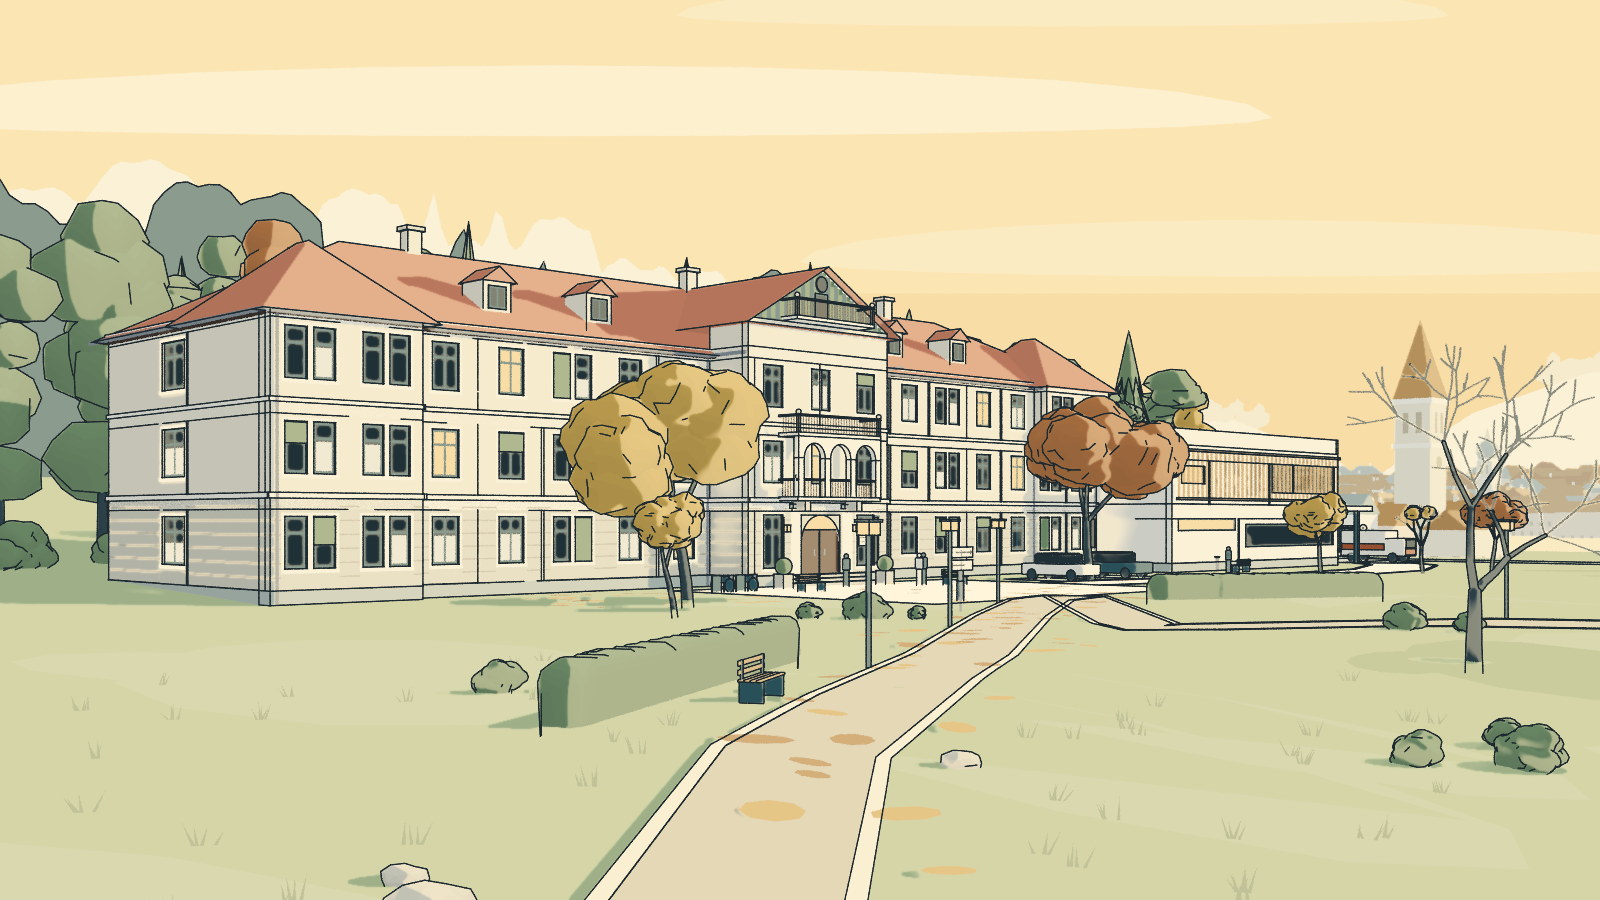
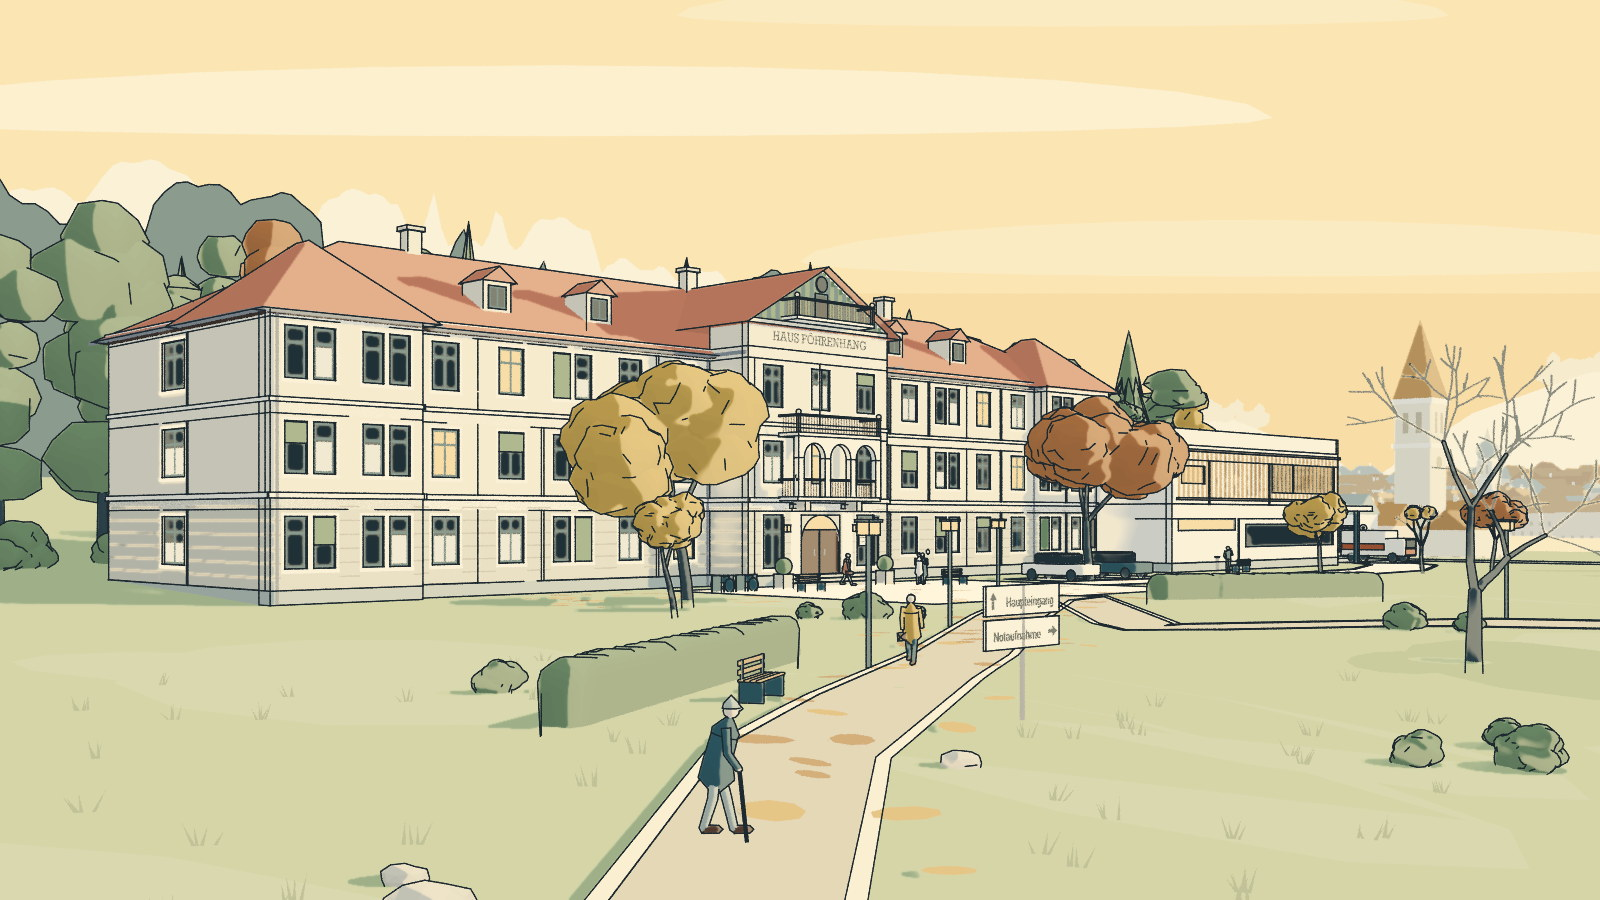
HAUS: Figuren mit Haltung und Gegenstand, lesbare Schrift (Schriftzug Giebelwand, Wegweiser am Parkweg, Haltestellen-H)

diff --git a/gen/blender/haus_blockout.py b/gen/blender/haus_blockout.py
@@ -228,8 +228,25 @@ GIEBEL_DEKOR = dict(streifen=0.32, balkon=(27.6, 33.6, 1.2), rundfenster=(0.42, 
 # Wegweiser an der Kehre, Haltestelle an der Klinikstraße, Raucherecke an der Ecke von Trakt N, Fahrradständer am Vorplatz
 ZUFAHRT = [(41.0, -12.0), (50.0, -13.6), (62.0, -15.0), (76.0, -14.2), (88.0, -10.0), (92.0, -6.5)]
 STELLPLAETZE = dict(flaeche=(43.5, -10.8, 53.5, -5.5), autos=[(45.6, -8.1, "auto_weiss"), (51.2, -8.1, "auto_blau")])   # (x, y Mitte, Material), längs y
-FIGUREN = [(30.6, -4.9, 0.0), (34.6, -6.6, 2.2), (35.3, -6.3, -0.8), (64.0, -8.6, 1.0), (23.5, -18.5, 0.6), (106.4, 7.5, 3.1)]   # (x, y, Blick rad)
-WEGWEISER = dict(ort=(17.0, -23.8), hoehe=2.4, schilder=((2.1, 1), (1.6, -1)))   # Schilder (z Unterkante, Pfeilrichtung ±1): Notaufnahme →, Bettenstationen ←
+FIGUREN = [(30.6, -4.9, -0.9, "geht", "ziegel", "sockel", 0.72, "tasche", "haar"),          # Besucherin verlässt das Portal, roter Mantel, Tasche
+           (34.6, -6.6, 0.4, "spricht", "rtw", "figur", 0.62, "klemmbrett", "dutt"),   # Ärztin im Kittel, mitten im Satz …
+           (35.3, -6.3, 3.54, "infusion", "tor", "kante", 0.5, "infusion", None),         # … mit einem Patienten im Bademantel am Infusionsständer
+           (64.0, -8.6, -2.2, "raucht", "petrol", "petrol", None, "zigarette", "haar"),     # Pflegerin in der Raucherecke
+           (-16.8, -47.3, -0.8, "stock", "figur", "sockel", 0.75, "stock", "muetze"),         # älterer Herr mit Gehstock bleibt auf dem Parkweg stehen
+                                           # (22 m vor der Kamera, ≈ 115 px hoch) und schaut ins Tal: die eine Figur, deren Haltung liest
+           (-0.9, -36.8, -2.62, "geht", "laub_gelb", "figur", 0.7, "tasche", "haar"),         # Besucherin kommt den Parkweg herunter (38 m, links neben dem Wegweiser)
+           (106.4, 7.5, 3.1, "wartet", "rollladen", "figur", 0.7, "telefon", "muetze")]       # wartet an der Haltestelle, schaut aufs Telefon
+                                           # (x, y, Blick rad, Haltung, Kleidung, Hose, Mantelsaum m oder None, Gegenstand, Kopf); Blick möglichst
+                                           # quer zur Kamera, damit Schritt und Arme in der Silhouette lesen
+WEGWEISER = dict(ort=(-6.0, -44.0), hoehe=2.65, schilder=((2.02, 0, "Haupteingang"), (1.38, 1, "Notaufnahme")), breite=2.3, hoch_=0.56, schrift=0.36)
+                                           # am Parkweg West rechts, 30 m vor der Kamera (≈ 50 px/m, Schrift ≈ 13 px; an der Kehre 60 m weit
+                                           # war sie unlesbar). Schilder (z Unterkante, Pfeil 0 = geradeaus / 1 = rechts, Text)
+# Schrift (25.10.2026): echte Buchstaben aus einer Schriftdatei (vom Code gesetzt, ART_BIBLE §6), nur Namen und Wegweiser auf Deutsch
+# (das Haus steht in Österreich; Spieltexte bleiben im UI). Fehlt die Datei, nimmt Blender seine eingebaute Schrift.
+SCHRIFTEN = dict(fassade="/System/Library/Fonts/Supplemental/Rockwell.ttc", schild="/System/Library/Fonts/Supplemental/DIN Alternate Bold.ttf")
+SCHRIFTZUG = dict(text="HAUS FÖHRENHANG", grundlinie=12.42, groesse=0.86)
+                                           # Antiqua-Versalien (Tinte auf Putz) auf der Giebelwand über dem Traufgesims (z 12 … 13,5, bisher leer):
+                                           # 0,6 m hoch ≈ 11 px aus Kamera (a); unter dem Traufgesims verdeckten die Fensterfaschen des 2. OG die Schrift
 HALTESTELLE = dict(x=106.6, y0=3.5, y1=7.5, tiefe=1.6, hoehe=2.6, schild=(105.6, 1.5))
 RAUCHERECKE = dict(bank=(66.0, -8.4), ascher=(63.6, -8.0))
 FAHRRAEDER = dict(buegel=(21.2, 22.0, 22.8, 23.6), y=-5.0, raeder=((21.6, "figur"), (23.2, "tor")))
@@ -342,7 +359,7 @@ PALETTE = {
     "tor": "#2C5560", "lamelle": "#C99A5B", "beton": "#F7F1E4", "stuetze": "#2C5560", "attika": "#F7F1E4",
     "wand": "#EFE6D3", "wand_n": "#F7F1E4", "paneel": "#BFD9CF", "paneel_n": "#2C5560", "decke": "#F7F1E4",
     "lino_warm": "#C9BDA2", "lino_kuehl": "#B6BFB6", "tuer": "#2C5560", "zarge": "#C99A5B", "holz": "#C99A5B",
-    "lift": "#2C5560", "petrol": "#2C5560", "figur": "#2C5560",
+    "lift": "#2C5560", "petrol": "#2C5560", "figur": "#2C5560", "haut": "#EFE0CC",
     # Außengrün (ART_BIBLE §2 „Wiese"/„Laub", Entscheid des Nutzers 23.10.2026): Rasen Wiese, Kronen/Hecken/Büsche Laub
     "wiese": "#ACB98B", "wiese_hell": "#B9C59A", "wiese_dunkel": "#9FAE7E", "gras": "#8E9C70", "weg": "#C9BDA2", "kante": "#EFE6D3", "asphalt": "#B6BFB6", "pflaster": "#F7F1E4", "hecke": "#6F8A62",
     "stamm": "#2C3E46", "zweig": "#2C3E46", "laub": "#6F8A62", "wald_nah": "#6F8A62", "wald_mitte": "#2C5560", "wald_fern": "#F7F1E4",
@@ -384,7 +401,7 @@ TAG_PALETTE = {
     # Fassadendetails und Herbst (ART_BIBLE §2 „Außen", Ergänzung 25.10.2026)
     "fasche": "#F4F1E6", "gesims": "#F4F1E6", "rustika": "#D6D0BE", "fuge": "#AFA896", "rollladen": "#4F7F4A", "holz_gruen": "#4F7F4A",
     "gardine": "#E3E6EC", "holz_dunkel": "#4A2E22", "stein": "#CFC9BA", "zink": "#7E858F", "schrift": "#1A1F2E", "sparren": "#3B2A22",
-    "auto_weiss": "#F4F1E6", "auto_blau": "#3A5A8C", "laub_gelb": "#D9A93C", "laub_rost": "#B9652C", "laub_boden": "#B8762F", "laub_boden_hell": "#D8A24A",
+    "auto_weiss": "#F4F1E6", "auto_blau": "#3A5A8C", "haut": "#E8C4A0", "laub_gelb": "#D9A93C", "laub_rost": "#B9652C", "laub_boden": "#B8762F", "laub_boden_hell": "#D8A24A",
 }
 # Stadt und Hügel (25.10.2026): Wand-, Dach-, Fenster- und Baumtöne; „…_fern" = zum Horizont hin mit Dunst gemischt (Oberstadt am
 # Gegenhang, Luftperspektive). Probe (06:40): alles im Talschatten, ohne Linie. Stile: besonnt und schattiert, die nahe Unterstadt mit Linie.
@@ -926,24 +943,112 @@ def bauen():
 
     for i, (x, y, m) in enumerate(STELLPLAETZE["autos"]): auto(f"Auto {i + 1}", x, y, m)
 
-    def figur(name, x, y, blick, m="figur"):
-        """Silhouette: Kapsel 1,7 m (Rumpf, Kopf, zwei Beine als ein schmalerer Zylinder), kein Schlagschatten, kleiner Fußschatten."""
-        z = gelaende_z(x, y)
-        einordnen(wz.zylinder(0.15, 0.85, (x, y, z + 0.425), M[m], "hinten", v=10, name=f"{name} Beine"), "Figuren")
-        einordnen(wz.kiste((0.42, 0.24, 0.62), (x, y, z + 1.16), M[m], "hinten", dreh=(0, 0, blick), fase=0.08, name=f"{name} Rumpf"), "Figuren")
-        einordnen(wz.kugel(0.12, (x, y, z + 1.6), M[m], "hinten", name=f"{name} Kopf"), "Figuren")
+    # Figuren (25.10.2026, ART_BIBLE §5 „Haltung statt Pose"): Gerüst aus Röhren (Rumpf, Arme, Beine mit Knie und Ellbogen),
+    # Kopf und Hände als Kugeln, Mantel als Glocke von der Brust bis zum Saum, dazu je ein Gegenstand. Gelenkpunkte je Haltung in
+    # einem Figurenrahmen (u vorwärts, v links, z oben); bei 18–23 px/m trägt nur die Silhouette, darum übertrieben: weiter
+    # Schritt, abgespreizte Arme, Neigung. Zwei Farben (Kleidung, Hose) plus Haut für Kopf und Hände.
+    HALTUNGEN = {
+        "geht": dict(neig=6, kopf=(0.0, 0.0), beine=(((0.14, 0.1, 0.5), (0.3, 0.1, 0.08)), ((-0.08, -0.1, 0.48), (-0.28, -0.1, 0.14))),
+                     arme=(((-0.1, 0.22, 1.15), (-0.2, 0.22, 0.92)), ((0.1, -0.22, 1.15), (0.16, -0.2, 0.9)))),
+        "spricht": dict(neig=-2, kopf=(8, 10), beine=(((0.0, 0.09, 0.5), (0.0, 0.1, 0.08)), ((0.08, -0.14, 0.5), (0.06, -0.2, 0.08))),
+                        arme=(((0.04, 0.23, 1.12), (0.24, 0.12, 1.14)), ((0.1, -0.3, 1.16), (0.3, -0.36, 1.34)))),
+        "infusion": dict(neig=10, kopf=(10, 0), beine=(((0.08, 0.1, 0.5), (0.14, 0.1, 0.08)), ((-0.02, -0.1, 0.5), (-0.1, -0.1, 0.1))),
+                         arme=(((0.12, 0.26, 1.1), (0.24, 0.3, 1.26)), ((0.0, -0.21, 1.12), (0.04, -0.22, 0.86)))),
+        "raucht": dict(neig=-5, kopf=(-6, -8), beine=(((0.06, 0.04, 0.5), (0.12, -0.08, 0.08)), ((0.0, -0.1, 0.5), (0.0, -0.12, 0.08))),
+                       arme=(((0.16, 0.2, 1.2), (0.12, 0.05, 1.52)), ((-0.06, -0.26, 1.1), (0.02, -0.21, 0.97)))),
+        "stock": dict(neig=14, kopf=(-8, 0), beine=(((0.12, 0.1, 0.5), (0.22, 0.1, 0.08)), ((-0.04, -0.1, 0.5), (-0.16, -0.1, 0.12))),
+                      arme=(((-0.02, 0.22, 1.1), (0.02, 0.24, 0.86)), ((0.12, -0.24, 1.1), (0.3, -0.24, 0.9)))),
+        "wartet": dict(neig=0, kopf=(22, -6), beine=(((0.0, 0.06, 0.5), (0.0, 0.05, 0.08)), ((0.1, -0.16, 0.52), (0.14, -0.24, 0.08))),
+                       arme=(((0.06, 0.22, 1.12), (0.24, 0.08, 1.24)), ((-0.04, -0.25, 1.16), (0.04, -0.17, 1.4)))),
+    }
+
+    def figur(name, x, y, blick, haltung, kleid="figur", hose="figur", mantel=None, ding=None, kopfteil=None):
+        """Figur mit Haltung (HALTUNGEN). `mantel`: Saumhöhe (Kittel, Bademantel, Mantel) oder None; `ding`: Tasche, Klemmbrett,
+        Infusionsständer, Zigarette, Gehstock, Telefon. Kein Schlagschatten (Sammlung Figuren), kleiner Fußschatten."""
+        z0 = gelaende_z(x, y); hl = HALTUNGEN[haltung]; cw, sw = math.cos(blick), math.sin(blick)
+        neig = math.radians(hl["neig"])
+
+        def P(u, v, z, oben=True):                                 # Figurenrahmen -> Welt; Oberkörper um das Becken geneigt
+            if oben and z > 0.95: u, z = u + (z - 0.95) * math.sin(neig), 0.95 + (z - 0.95) * math.cos(neig)
+            return Vector((x + u * cw - v * sw, y + u * sw + v * cw, z0 + z))
+        teile = {m: Bau() for m in {kleid, hose, "haut", "holz_dunkel", "rtw", "zink"}}
+        becken, brust, hals = P(0, 0, 0.95), P(0.02, 0, 1.36), P(0.03, 0, 1.5)
+        teile[kleid].roehre([becken - Vector((0, 0, 0.08)), P(0.01, 0, 1.15), brust, hals], [0.15, 0.155, 0.18, 0.07])
+        if mantel:                                                 # Mantel: Glocke von der Brust zum Saum, unten weiter
+            teile[kleid].roehre([P(0.02, 0, 1.3), P(0.01, 0, 1.0), P(0.0, 0, mantel, oben=False)], [0.18, 0.19, 0.24], seiten=10)
+        kn, kt = hl["kopf"]; kopf = P(0.04 + 0.1 * math.sin(math.radians(kn)), 0.1 * math.sin(math.radians(kt)), 1.62)
+        teile["haut"].lappen(kopf, 0.105, random.Random(name), stufe=2, beulen=4, tiefe=0.0, flach=1.1)
+        hinten = P(-0.035, 0, 0, oben=False) - P(0, 0, 0, oben=False)
+        if kopfteil in ("haar", "dutt"):                           # Haar als Kappe hinten-oben, Dutt als Kugel am Hinterkopf
+            teile["holz_dunkel"].lappen(kopf + hinten + Vector((0, 0, 0.025)), 0.108, random.Random(name + "h"), stufe=2, beulen=6, tiefe=0.12, flach=0.95)
+            if kopfteil == "dutt": teile["holz_dunkel"].lappen(kopf + hinten * 3.2 + Vector((0, 0, 0.06)), 0.055, random.Random(name + "d"), stufe=1, beulen=3, tiefe=0.0)
+        elif kopfteil == "muetze":                                 # Schiebermütze: flacher Deckel mit Schirm nach vorn
+            vorn = P(0.09, 0, 0, oben=False) - P(0, 0, 0, oben=False)
+            teile[hose].roehre([kopf + Vector((0, 0, 0.04)), kopf + Vector((0, 0, 0.1))], [0.118, 0.1], seiten=10)
+            teile[hose].roehre([kopf + Vector((0, 0, 0.045)), kopf + vorn + Vector((0, 0, 0.035))], [0.07, 0.06], seiten=6)
+        for seite, ((knie, fuss)) in zip((1, -1), hl["beine"]):
+            huefte = P(0.0, 0.09 * seite, 0.93, oben=False)
+            k_, f_ = P(*knie, oben=False), P(*fuss, oben=False)
+            teile[hose].roehre([huefte, k_, f_], [0.075, 0.065, 0.055])
+            teile["holz_dunkel"].roehre([f_, f_ + (P(0.2, 0, 0, oben=False) - P(0, 0, 0, oben=False))], [0.055, 0.05], seiten=6)   # Schuh
+        haende = []
+        for seite, (ell, hand) in zip((1, -1), hl["arme"]):
+            sch = P(0.02, 0.19 * seite, 1.42); e_, h_ = P(*ell), P(*hand)
+            teile[kleid].roehre([sch, e_, h_], [0.06, 0.052, 0.045]); teile["haut"].lappen(h_, 0.05, random.Random(name + str(seite)), stufe=1, beulen=3, tiefe=0.0)
+            haende.append(h_)
+        links, rechts = haende
+        if ding == "tasche":                                       # Tasche an der rechten Hand
+            t = teile["holz_dunkel"]; c = rechts - Vector((0, 0, 0.2)); quer = P(0, 0.06, 0, oben=False) - P(0, 0, 0, oben=False); vor = P(0.16, 0, 0, oben=False) - P(0, 0, 0, oben=False)
+            t.roehre([c - vor, c + vor], [0.13, 0.13], seiten=4)
+        elif ding == "klemmbrett":                                 # Klemmbrett in der linken Hand, leicht schräg
+            t = teile["rtw"]; t.roehre([links + Vector((0, 0, -0.1)), links + Vector((0, 0, 0.18))], [0.13, 0.13], seiten=4)
+        elif ding == "infusion":                                   # Infusionsständer neben der linken Hand: Stange, Fuß, Beutel oben
+            fuss = P(0.26, 0.34, 0.0, oben=False); t = teile["zink"]
+            t.roehre([fuss, fuss + Vector((0, 0, 1.95))], [0.018, 0.018], seiten=6)
+            for a in range(3): t.roehre([fuss + Vector((0, 0, 0.06)), fuss + Vector((0.28 * math.cos(a * 2.1), 0.28 * math.sin(a * 2.1), 0.02))], [0.02, 0.02], seiten=4)
+            teile["rtw"].lappen(fuss + Vector((0, 0, 1.78)), 0.1, random.Random(name + "b"), stufe=1, beulen=3, tiefe=0.0, flach=1.5)
+        elif ding == "zigarette":
+            teile["rtw"].roehre([links, links + (P(0.12, 0.02, 1.56) - P(0, 0, 1.5))], [0.012, 0.012], seiten=4)
+        elif ding == "stock":                                      # Gehstock von der rechten Hand schräg vor die Füße
+            teile["holz_dunkel"].roehre([rechts + Vector((0, 0, 0.04)), P(0.4, -0.26, 0.0, oben=False)], [0.022, 0.02], seiten=6)
+        elif ding == "telefon":                                    # Telefon leuchtet (fenster_warm), Tasche am Riemen
+            teile["holz_dunkel"].roehre([links, links + Vector((0, 0, 0.12))], [0.04, 0.04], seiten=4)
+            t = teile["holz_dunkel"]; c = P(-0.02, -0.24, 0.98, oben=False); t.roehre([c - Vector((0, 0, 0.14)), c + Vector((0, 0, 0.14))], [0.12, 0.12], seiten=4)
+        for m, b in teile.items(): b.fertig(f"{name} {m}", m, "Figuren", glatt=m in (kleid, hose, "haut"))
         fussschatten(f"{name} Schatten", x, y, 0.3, laenge=1.4, breite=0.7, versatz=0.8)
 
-    for i, (x, y, blick) in enumerate(FIGUREN): figur(f"Figur {i + 1}", x, y, blick, "rtw" if i == 1 else "figur")   # eine im weißen Kittel
+    for i, f_ in enumerate(FIGUREN): figur(f"Figur {i + 1}", *f_)
+
+    def schrift(name, text, x, y, z, groesse, m="schrift", samm="Hof", art="schild", dreh=0.0, ausrichtung="CENTER"):
+        """Text als Netz aus einer Schriftdatei (SCHRIFTEN): Grundlinie bei z, liest von links nach rechts, Vorderseite nach −y
+        (`dreh` um z). Font-Kurve -> Netz über den Depsgraph, die Kurve wird danach gelöscht."""
+        cu = bpy.data.curves.new(name, 'FONT'); cu.body = text; cu.size = groesse; cu.extrude = 0.008; cu.align_x = ausrichtung
+        pfad = SCHRIFTEN.get(art)
+        if pfad and os.path.exists(pfad): cu.font = bpy.data.fonts.load(pfad, check_existing=True)
+        tmp = bpy.data.objects.new(name, cu); sc.collection.objects.link(tmp)
+        me = bpy.data.meshes.new_from_object(tmp.evaluated_get(bpy.context.evaluated_depsgraph_get()))
+        bpy.data.objects.remove(tmp); bpy.data.curves.remove(cu)
+        me.materials.clear(); me.materials.append(M[m])
+        o = bpy.data.objects.new(name, me); sc.collection.objects.link(o)
+        o.rotation_euler = (math.radians(90), 0, dreh); o.location = (x, y, z)
+        return einordnen(o, samm)
 
     wwz = WEGWEISER; (wx, wy) = wwz["ort"]; wzz = gelaende_z(wx, wy)                 # Wegweiser an der Kehre: Pfosten, zwei weiße Schilder mit Pfeil und Textbalken
     einordnen(wz.zylinder(0.05, wwz["hoehe"], (wx, wy, wzz + wwz["hoehe"] / 2), M["zink"], "hinten", v=8, name="Wegweiser Pfosten"), "Hof")
-    for i, (zs, richtung) in enumerate(wwz["schilder"]):
-        kiste(f"Wegweiser Schild {i + 1}", wx - 0.7, wy - 0.03, wx + 0.7, wy + 0.03, wzz + zs, wzz + zs + 0.4, "rtw", "Hof")
-        sx = wx + richtung * 0.42; sz = wzz + zs + 0.2
-        kiste(f"Wegweiser Pfeil {i + 1}", sx - 0.14, wy - 0.045, sx + 0.14, wy - 0.035, sz - 0.03, sz + 0.03, "schrift", "Hof")
-        netz(f"Wegweiser Pfeilspitze {i + 1}", [(sx + richtung * 0.1, wy - 0.045, sz - 0.11), (sx + richtung * 0.1, wy - 0.045, sz + 0.11), (sx + richtung * 0.26, wy - 0.045, sz)], [(0, 1, 2)], "schrift", "Hof")
-        kiste(f"Wegweiser Text {i + 1}", wx - 0.55 + (0.2 if richtung > 0 else 0.0), wy - 0.045, wx + 0.2 + (0.2 if richtung > 0 else 0.0), wy - 0.035, sz - 0.03, sz + 0.03, "schrift", "Hof")
+    bw, bh = wwz["breite"] / 2, wwz["hoch_"]
+    for i, (zs, richtung, text) in enumerate(wwz["schilder"]):    # weißes Schild, Pfeil links (geradeaus) oder rechts, Text in DIN
+        kiste(f"Wegweiser Schild {i + 1}", wx - bw, wy - 0.03, wx + bw, wy + 0.03, wzz + zs, wzz + zs + bh, "rtw", "Hof")
+        sz = wzz + zs + bh / 2; yf = wy - 0.045
+        if richtung:                                                # → an der rechten Kante
+            sx = wx + bw - 0.24
+            kiste(f"Wegweiser Pfeil {i + 1}", sx - 0.12, yf, sx + 0.02, yf + 0.01, sz - 0.035, sz + 0.035, "schrift", "Hof")
+            netz(f"Wegweiser Pfeilspitze {i + 1}", [(sx, yf, sz - 0.11), (sx, yf, sz + 0.11), (sx + 0.16, yf, sz)], [(0, 1, 2)], "schrift", "Hof")
+            schrift(f"Wegweiser Text {i + 1}", text, wx - 0.2, wy - 0.04, sz - 0.125, wwz["schrift"])
+        else:                                                       # ↑ an der linken Kante
+            sx = wx - bw + 0.2
+            kiste(f"Wegweiser Pfeil {i + 1}", sx - 0.035, yf, sx + 0.035, yf + 0.01, sz - 0.16, sz + 0.02, "schrift", "Hof")
+            netz(f"Wegweiser Pfeilspitze {i + 1}", [(sx - 0.11, yf, sz + 0.02), (sx + 0.11, yf, sz + 0.02), (sx, yf, sz + 0.17)], [(0, 1, 2)], "schrift", "Hof")
+            schrift(f"Wegweiser Text {i + 1}", text, wx + 0.2, wy - 0.04, sz - 0.125, wwz["schrift"])
 
     hs_ = HALTESTELLE; hz = gelaende_z(hs_["x"], (hs_["y0"] + hs_["y1"]) / 2)         # Haltestelle an der Klinikstraße: Glashäuschen und H-Schild
     for yy in (hs_["y0"] + 0.1, hs_["y1"] - 0.1):
@@ -954,7 +1059,7 @@ def bauen():
     sx, sy = hs_["schild"]; sz = gelaende_z(sx, sy)
     einordnen(wz.zylinder(0.04, 2.6, (sx, sy, sz + 1.3), M["zink"], "hinten", v=8, name="Haltestelle Schildpfosten"), "Hof")
     einordnen(wz.zylinder(0.32, 0.04, (sx, sy, sz + 2.7), M["rtw"], "hinten", dreh=(0, math.radians(90), 0), v=16, name="Haltestelle Schild"), "Hof")
-    kiste("Haltestelle H", sx - 0.04, sy - 0.12, sx + 0.04, sy + 0.12, sz + 2.6, sz + 2.8, "schrift", "Hof")
+    schrift("Haltestelle H", "H", sx - 0.04, sy, sz + 2.58, 0.36, m="rollladen", dreh=math.radians(-90))   # grünes H auf weißer Scheibe
 
     bank("Raucherecke Bank", *RAUCHERECKE["bank"], math.radians(180))                 # Raucherecke an der SE-Ecke von Trakt N, Standascher
     ax, ay = RAUCHERECKE["ascher"]; az = gelaende_z(ax, ay)
@@ -1467,6 +1572,8 @@ def bauen():
     pts += [(px1, zs_), (px1, zo), (px0, zo)]
     prisma("Loggia Bogenfeld", pts, "y", yv - 0.05, yv + lg["tiefe"], "gesims", "Trakt A 1OG")
     balkon("Loggia Austritt 2OG", px0, px1, yg, pt + 0.05, zo, pd["bruestung"], "Trakt A 2OG", bal=pd["baluster"])
+    sz_ = SCHRIFTZUG                                               # Schriftzug auf der Giebelwand (Antiqua in Tinte)
+    schrift("Schriftzug Haus", sz_["text"], (RISALIT_SE[0] + RISALIT_SE[2]) / 2, RISALIT_SE[1] - 0.02, sz_["grundlinie"], sz_["groesse"], samm="Trakt A Dach", art="fassade")
     sx0 = PORTAL["x1"] + 0.2 + pw + 0.7                            # Schild „Haus Föhrenhang": weiße Tafel, drei Textbalken (Schrift bei 17 px/m unlesbar)
     kiste("Schild Haus", sx0, yg - 0.04, sx0 + 0.95, yg, 1.5, 2.25, "rtw", "Trakt A EG")
     for i, (zs, lb_) in enumerate(((2.08, 0.55), (1.92, 0.75), (1.68, 0.4))):

diff --git a/docs/STAND.md b/docs/STAND.md
@@ -4,6 +4,13 @@ Diese Datei ist der Einstieg für die nächste Sitzung. Der Stand liegt auf dem 
 `claude/stil-ligne-claire` (gepusht). Prüfung: `python3 gen/kunst.py && python3 tools/baue.py &&
 node tools/durchlauf.mjs "$PWD/bau/nachtdienst.html" "$PWD/bau/durchlauf"` → „Alle Prüfungen bestanden."
 
+## Fertig (25.10.2026): Figuren mit Haltung und lesbare Schrift in der Außenansicht (a) (Auftrag B, dritter Teil)
+
+- `haus_blockout.py`: `HALTUNGEN` und `figur` (Röhrengerüst, Mantel, Gegenstand, Haar, Dutt, Mütze); sieben Figuren, davon
+  zwei vorn auf dem Parkweg (älterer Herr mit Gehstock, Besucherin mit Tasche). `schrift` setzt Text aus Schriftdateien:
+  „HAUS FÖHRENHANG" auf der Giebelwand, Wegweiser am Parkweg („↑ Haupteingang", „Notaufnahme →"), „H" an der Haltestelle.
+- Offen beim Nutzer: farbige Mäntel und Hautton draußen statt nur Petrol und Papier (ART_BIBLE §2), siehe KRANKENHAUS.
+
 ## Fertig (25.10.2026): Natur, Himmel und Ferne der Außenansicht (a) (Auftrag B, zweiter Teil)
 
 - Nutzer: Bäume lesen schlecht, kahle Bäume wie Hergé, Details und ferne Stadt wie in den Referenzen, Himmel auch
@@ -293,9 +300,9 @@ Koordination auf Opus. Commit nach jedem Teilschritt, pushen, STAND.md nachziehe
 
 ## Nächster Auftrag B (ab 25.10.2026): Fassade und Umgebung ausdetaillieren (beide Außenstile)
 
-**Stand 25.10.2026: Fassade und Natur/Himmel/Ferne fertig** (siehe „Fertig" oben). Rest: Rückmeldung des Nutzers zu
-den neuen Bäumen und zum Himmel, offene Fragen (Gardinen, kahler Baum, Trakt N), Figuren mit Haltung, Schild lesbar, dann
-Raumkameras aus KRANKENHAUS §9 und Aufnahme B1.
+**Stand 25.10.2026: Fassade, Natur/Himmel/Ferne, Figuren und Schrift fertig** (siehe „Fertig" oben; Bäume und Himmel
+vom Nutzer angenommen). Rest: offene Fragen (Farben der Figuren, Gardinen, kahler Baum, Trakt N), dann Raumkameras aus
+KRANKENHAUS §9 und Aufnahme B1.
 
 Außenstil ist entschieden (siehe „Fertig" oben). Jetzt die Außenansicht (a) vom Blockout zum Bild bringen, in beiden
 Stilen prüfen: Fenster mit Rahmen, Kämpfer und Sprossen, Sohlbank, Gardinen und Jalousien in wechselnder Höhe, einzelne

diff --git a/gen/blender/README.md b/gen/blender/README.md
@@ -135,6 +135,12 @@ ohne `bpy.ops` (`roehre`, `lappen`, `etage`); `astwerk` verzweigt rekursiv (Leit
 Baumsaum. Himmel der Stile: `himmel_grenzen` (fünf Stufen), Wolkenschatten (`wolke_schatten`, blau: angestrahlt),
 `WOLKEN_STREIFEN`, `VOEGEL`. Boden: `GRAS`, `FELDSTEINE`, dunkle Wiesenflecken. Linien der Stile werden ab 90 m dünner
 (Freestyle-Modifikator „Entfernung zur Kamera", bis ×0,35 bei 260 m).
+
+Figuren und Schrift (25.10.2026): `HALTUNGEN` (Gelenkpunkte je Haltung: geht, spricht, infusion, raucht, stock, wartet),
+`FIGUREN` (Ort, Blick, Haltung, Kleidung, Hose, Mantelsaum, Gegenstand, Kopfteil), `figur` baut daraus Röhren, Kopf und
+Hände, Mantel, Gegenstand und Haar, Dutt oder Mütze. `schrift` setzt Text aus `SCHRIFTEN` als Netz (Font-Kurve über den
+Depsgraph): `SCHRIFTZUG` „HAUS FÖHRENHANG" auf der Giebelwand, `WEGWEISER` mit Text und Pfeilen, „H" an der Haltestelle.
+Die Schriftdateien sind macOS-Systemschriften (Rockwell, DIN Alternate Bold); fehlen sie, nimmt Blender seine eingebaute.
 Maßstab von Kamera (a) ≈ 17 px/m: alles unter 0,1 m bekommt **keine eigene Tuschelinie** (Materialien `rahmen`, `fasche`,
 `fuge`, `holz_gruen`, `gardine`, `zink`, `schrift`, `sparren`, `lamelle`, `ast`, `laub_boden*` in `OHNE_LINIE`), sonst wurden
 Fensterrahmen und Astwerk zu schwarzem Gekritzel; Linie nur an Laibung, Scheibe, Rollladen, Gesims, Handlauf. `kiste` ohne Fase

diff --git a/docs/ART_BIBLE.md b/docs/ART_BIBLE.md
@@ -199,7 +199,8 @@ Kontext → einsetzen, `gen/blender/README.md`).
 ## 6. Was ein Bild sofort disqualifiziert
 
 - Schrift im Bild. **Jeder Text im Spiel wird vom Code gesetzt**, nie vom Bildmodell —
-  das ist das eindeutigste Erkennungszeichen für KI-Bilder.
+  das ist das eindeutigste Erkennungszeichen für KI-Bilder. In den Blender-Renders setzt der Code Schrift aus einer
+  Schriftdatei (`schrift` in `haus_blockout.py`): nur Namen und Wegweiser im Haus, auf Deutsch (25.10.2026).
 - Ein EKG, das vom Bildmodell gemalt wurde. **Alle Kurven kommen aus der Engine**, aus echten
   Aufnahmen. Gemalte Zacken sind medizinisch falsch und sofort als Fake erkennbar.
 - Sechs Finger, verbogene Hände, Instrumente, die es nicht gibt, Stethoskope mit zwei Schläuchen.
